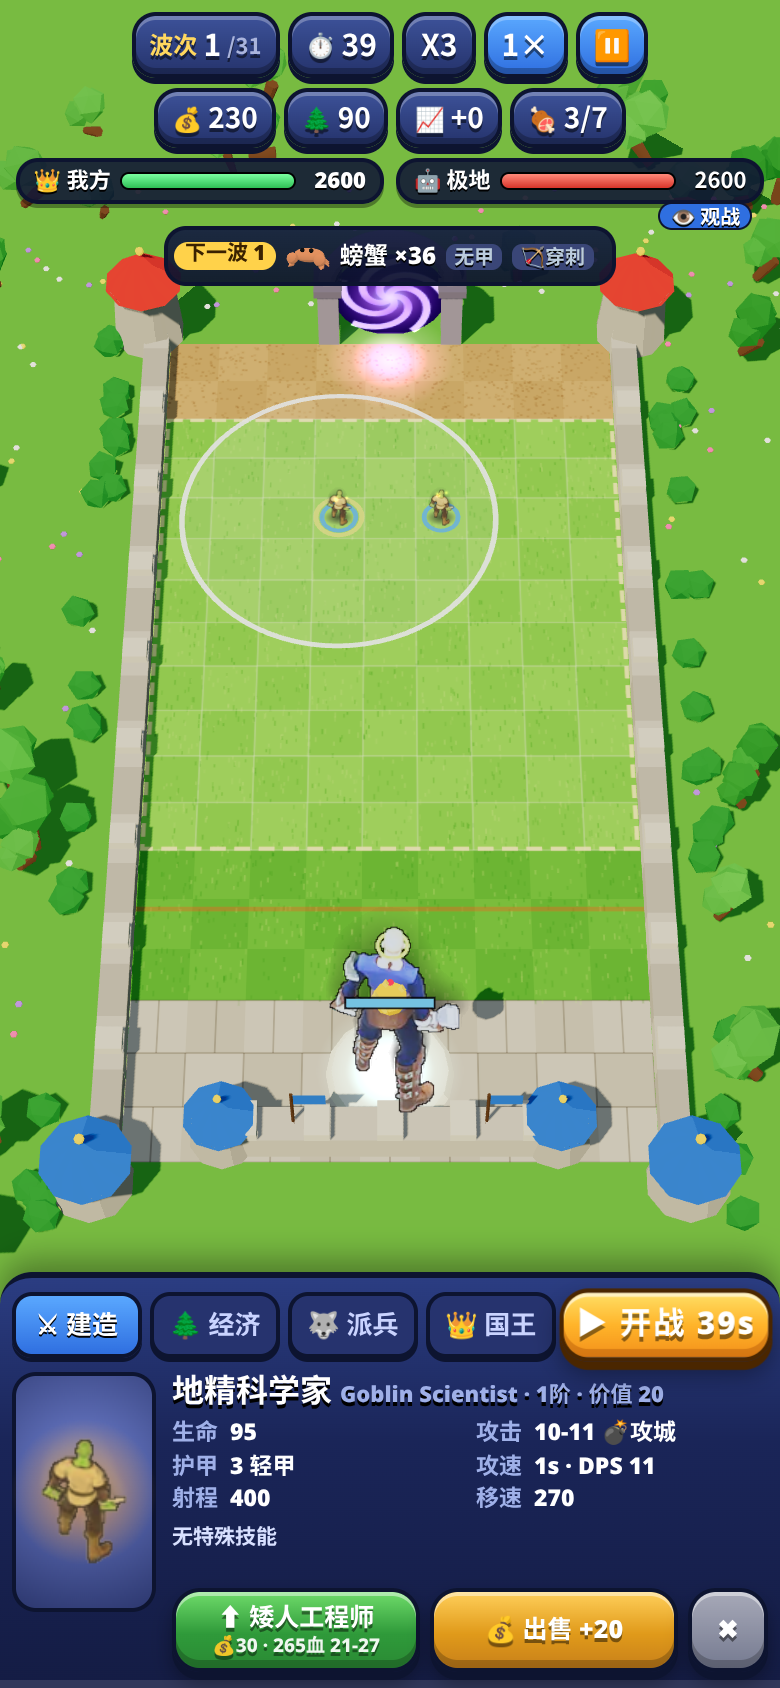
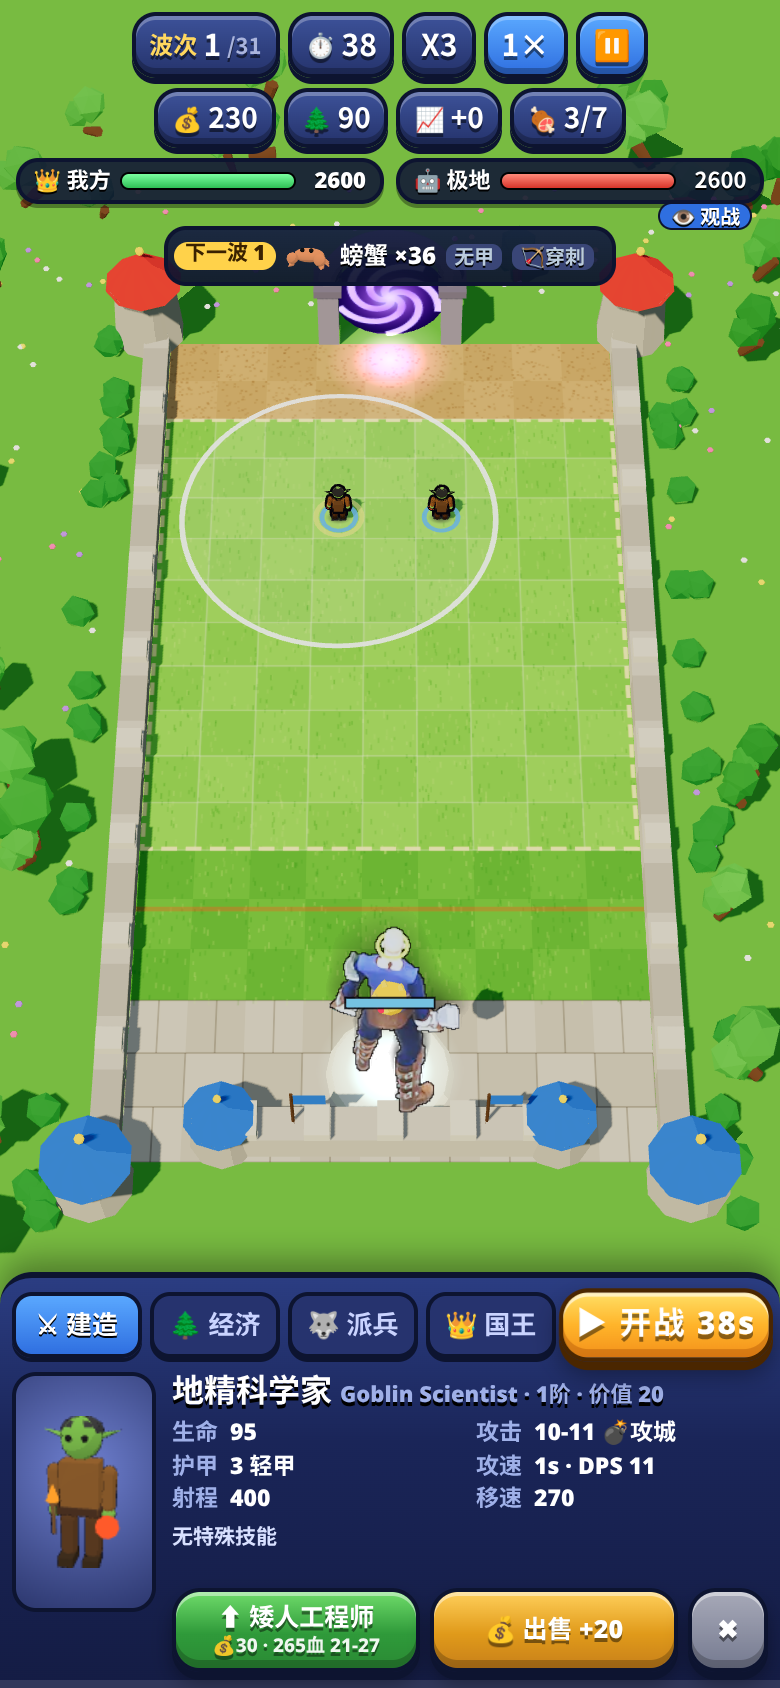
Model remake: Demi-Human (goblins, dwarf mortar, trolls, peon, wolf slavemaster, demonesses, tauren, sasquatch)

diff --git a/toonrecipes.js b/toonrecipes.js
@@ -73,3 +73,17 @@ R('h08Y',{k:1.05,h:1.05,torso:'robe',head:'default',helm:'hood',hoodC:0xb02a2a,s
 R('h08Z',{k:1.08,h:1.05,torso:'default',head:'default',helm:'helm',metal:0xd8a83a,skin:0xf0c8a0,torsoC:0xb02a2a,legC:0x4a1a1a,bootC:0xd8a83a,weapon:'sword',wMetal:0xff8a3a,glow:0xff7a2a,off:'orb',atk:'swing',pads:true,padC:0xd8a83a,extras:['ears','cape:0x2a6a3a','tabard:0xd8a83a']});
 R('h090',{k:1.12,h:1.08,torso:'default',head:'default',helm:'hood',hoodC:0x2a2a4a,skin:0x9a7ad8,torsoC:0x3a3a6a,legC:0x2a2a4a,bootC:0x1a1a2a,weapon:'blade',off:'blade',wMetal:0xc8d0ff,glow:0xc8d0ff,atk:'swing',extras:['ears:0x9a7ad8','cape:0x4a2a7a','orbit:0xc8d0ff']});
 R('h093',{k:1.22,h:1.12,torso:'default',head:'default',helm:'greathelm',metal:0x4a6a5a,accent:0x8aff8a,skin:0x9a7ad8,torsoC:0x4a3a6a,legC:0x2a2a3a,bootC:0x4a6a5a,weapon:'blade',wMetal:0xd8f0e0,glow:0x8aff8a,pads:true,padC:0x4a6a5a,spikes:true,atk:'swing',extras:['ears:0x9a7ad8','cape:0x2a5a3a','plate:0x4a6a5a','aura:0x8aff8a']});
+// ===================== 亚人 Demi-Human：地精、矮人、巨魔、兽人、魅魔、牛头人、大脚怪 =====================
+R('h06J',{k:0.8,h:0.85,bw:0.95,torso:'default',head:'default',headS:1.25,skin:0x7ab84a,torsoC:0x8a5a2a,legC:0x5a3a20,bootC:0x3a2a1a,hair:0x3a3a3a,weapon:'torch',off:'orb',glow:0xff5a2a,atk:'cast',extras:['ears:0x7ab84a','backpack:0x6a4a2a']});
+R('h078',{k:0.9,h:0.82,bw:1.3,torso:'default',head:'default',helm:'helm',metal:0x9a8a6a,skin:0xf0b890,torsoC:0x3a5a8a,legC:0x5a4a3a,bootC:0x3a2a1a,beard:0xc86a2a,weapon:'cannon',atk:'shoot',extras:['backpack:0x6a5a3a','beard:0xc86a2a']});
+R('h06I',{k:1.1,h:1.05,bw:1.45,torso:'brute',head:'beast',headC:0xc8906a,skin:0xc8906a,torsoC:0x8a6a4a,legC:0x6a4a30,sleeve:0xc8906a,handC:0xb07a5a,eye:0xffe04a,weapon:'orb',off:'orb',glow:0x8aff4a,atk:'cast',extras:['tanks:0x6aff4a','belly:0xd8a080','chest:0x8aff4a']});
+R('h06K',{k:0.92,h:0.95,bw:1.15,torso:'default',head:'default',skin:0x6a9a3a,torsoC:0x8a6a3a,legC:0x6a4a2a,bootC:0x4a3020,weapon:'axe',wMetal:0x8a8a8a,wood:0x7a5a3a,atk:'swing',extras:['tusks','ears:0x6a9a3a','backpack:0x8a6a3a']});
+R('h06L',{k:1.05,plan:'quad',skin:0x6a6a6a,skin2:0x9a9a9a,headType:'wolf',eye:0xffd02a,legLen:0.3,bodyLen:0.62,tailLen:0.35,tailW:1.4,mane:true,maneC:0x4a4a4a,claws:true,saddle:0x8a3a2a,rider:0x6a4a2a,riderSkin:0x6a9a3a,riderHelm:0x8a8a8a,lance:0x5a3a2a,atk:'bite',extras:['chains']});
+R('h06M',{k:1.0,h:1.08,torso:'default',head:'default',skin:0x5a9ab8,torsoC:0x7a5a3a,legC:0x5a4a2a,bootC:0x3a2a1a,hair:0xd83a2a,eye:0xff4a2a,weapon:'spear',wood:0x8a6a3a,atk:'thrust',extras:['tusks','ears:0x5a9ab8','quiver']});
+R('h06N',{k:1.15,h:1.12,bw:1.15,torso:'default',head:'default',helm:'horns',hornC:0xe8dcc0,skin:0x4a8aa8,torsoC:0x6a4a2a,legC:0x4a3a1a,bootC:0x2a1a10,hair:0xff3a2a,weapon:'spear',wMetal:0xd8d8d8,wood:0x6a4a2a,pads:true,padC:0xe8dcc0,atk:'thrust',extras:['tusks','ears:0x4a8aa8','mane:0x5a4a3a','bones']});
+R('h06O',{k:1.0,h:1.05,torso:'robe',head:'skull',headC:0xd8c8a0,skin:0x5a9ab8,torsoC:0x6a4a2a,eye:0x8aff4a,weapon:'staff',wood:0x8a6a3a,glow:0x8aff4a,atk:'cast',extras:['ears:0x5a9ab8','bones','aura:0x8aff4a']});
+R('h06P',{k:1.1,h:1.08,bw:1.15,torso:'robe',head:'default',skin:0x6a9a3a,torsoC:0x5a3a2a,beard:0x3a3a3a,weapon:'staff',wood:0x7a5a3a,glow:0x8ad8ff,atk:'cast',extras:['tusks','mane:0x8a8a8a','tabard:0xb02a2a','orbit:0x8ad8ff']});
+R('h06Q',{k:1.02,h:1.05,torso:'default',head:'default',helm:'horns',hornC:0x2a1a2a,skin:0xb87ad0,torsoC:0x3a1a3a,legC:0xb87ad0,legs:'hoof',hair:0xf0f0f0,weapon:'chain',glow:0xff6ad8,atk:'swing',extras:['bwings:0x5a2a5a','tail:0xb87ad0']});
+R('h06R',{k:1.18,h:1.12,torso:'default',head:'default',helm:'horns',hornC:0x1a1a3a,skin:0x6a8ad8,torsoC:0x1a1a4a,legC:0x6a8ad8,legs:'hoof',hair:0x1a1a2a,weapon:'chain',glow:0x8ad8ff,atk:'swing',extras:['bwings:0x2a2a6a','tail:0x6a8ad8','aura:0xff8ad8','orbit:0xff8ad8']});
+R('h06S',{k:1.25,h:1.15,bw:1.4,torso:'brute',head:'beast',headC:0x7a5030,helm:'horns',hornC:0xf0e8d8,skin:0x8a5a3a,torsoC:0x8a5a3a,legC:0x5a3a20,sleeve:0x8a5a3a,handC:0x7a5030,legs:'hoof',eye:0xffd02a,weapon:'hammer',wood:0x6a4a2a,wMetal:0x8a8a8a,atk:'slam',extras:['mane:0x3a2a1a','tabard:0x3a8ad8','tail:0x5a3a20']});
+R('h06T',{k:1.3,h:1.18,bw:1.5,torso:'brute',head:'beast',headC:0x8a6a4a,skin:0x7a5a3a,torsoC:0x7a5a3a,legC:0x6a4a2a,sleeve:0x7a5a3a,handC:0x5a3a20,arms:'claw',eye:0xffa02a,weapon:'claws',off:'claws',atk:'slam',extras:['mane:0x5a3a20','belly:0xa08060','spikes:0x5a3a20']});

diff --git a/index.html b/index.html
@@ -10,9 +10,9 @@
 <link rel="manifest" href="manifest.webmanifest">
 <link rel="icon" type="image/png" href="icons/favicon-32.png">
 <link rel="apple-touch-icon" href="icons/apple-touch-icon.png">
-<link rel="stylesheet" href="style.css?v=6">
-<link rel="stylesheet" href="td.css?v=6">
-<link rel="stylesheet" href="lt.css?v=6">
+<link rel="stylesheet" href="style.css?v=7">
+<link rel="stylesheet" href="td.css?v=7">
+<link rel="stylesheet" href="lt.css?v=7">
 </head>
 <body class="td lt">
 <canvas id="cv"></canvas>
@@ -75,8 +75,8 @@
 </div>
 <div id="showTitle" class="hidden"></div>
 <script src="audio.js?v=1"></script>
-<script src="lt_core.js?v=6"></script>
+<script src="lt_core.js?v=7"></script>
 <script type="importmap">{"imports":{"three":"./lib/three.module.min.js","three/addons/":"./lib/addons/"}}</script>
-<script type="module" src="lt.js?v=6"></script>
+<script type="module" src="lt.js?v=7"></script>
 </body>
 </html>

diff --git a/lt.js b/lt.js
@@ -3,8 +3,8 @@ import * as THREE from 'three';
 import {SPR_UNITS,SPR_K,SPR_V} from './sprdata.js';
 import {MODELS,modelOf} from './models.js';
 import {ABZ as ABZ_} from './abil_zh.js';
-import {initTK,buildTK,animTK} from './toonkit.js?v=6';
-import {TKR} from './toonrecipes.js?v=6';
+import {initTK,buildTK,animTK} from './toonkit.js?v=7';
+import {TKR} from './toonrecipes.js?v=7';
 const LT=window.LT,S=SFX.S,$=id=>document.getElementById(id);
 const Q=location.search;const DEBUG=/[?&]debug/.test(Q);const SHOWCASE=(Q.match(/[?&]showcase=([^&]+)/)||[])[1];
 const W=LT.W,H=LT.H,W2=W/2,H2=H/2;const B=LT.BUILD;

diff --git a/data/model_audit.md b/data/model_audit.md
@@ -28,7 +28,7 @@
 | Nature 自然 | 13 | 1.31 | 1 | 0 |
 | Element 元素 | 12 | 1.58 | 2 | 12 |
 | Ghost 幽魂 | 14 | 1.93 | 1 | 14 |
-| Demi-Human 亚人 | 13 | 1.69 | 1 | 0 |
+| Demi-Human 亚人 | 13 | 1.69 | 1 | 13 |
 | Hybrid 混血 | 6 | 1.00 | 0 | 0 |
 | Marine 海洋 | 14 | 1.43 | 0 | 0 |
 | Arctic 极地 | 12 | 2.00 | 2 | 12 |
@@ -131,19 +131,19 @@
 
 | id | 兵种 | WC3 模型 | 旧资源 | 旧资源符合度 | 处理 |
 |---|---|---|---|---|---|
-| h06J | Goblin Scientist 地精科学家 | GoblinSapper | 精灵 goblin | ✅ 基本相符 | 保留，后续统一换 ToonKit 时顺带做 |
-| h078 | Dwarven Engineer 矮人工程师 | MortarTeam | 精灵 dwarf | ⚠ 部分不符 | ToonKit 程序化重做（按 WC3 轮廓/配色） |
-| h06I | Mutant 变异炼金师 | HeroGoblinAlchemist | 精灵 hobgoblin | ⚠ 部分不符 | ToonKit 程序化重做（按 WC3 轮廓/配色） |
-| h06K | Servant 苦工 | Peon | 精灵 orc | ✅ 基本相符 | 保留，后续统一换 ToonKit 时顺带做 |
-| h06L | Slavemaster 奴隶主 | WolfRider | 精灵 wolfRider | ✅ 基本相符 | 保留，后续统一换 ToonKit 时顺带做 |
-| h06M | Tribesman 部落人 | HeadHunter | 精灵 troglodyte | ⚠ 部分不符 | ToonKit 程序化重做（按 WC3 轮廓/配色） |
-| h06N | Alpha Male 头狼猎手 | HeadHunter_V1 | 精灵 troglodyte | ⚠ 部分不符 | ToonKit 程序化重做（按 WC3 轮廓/配色） |
-| h06O | Medicine Man 巫医 | WitchDoctor | 精灵 goblin | ⚠ 部分不符 | ToonKit 程序化重做（按 WC3 轮廓/配色） |
-| h06P | Oracle 先知萨满 | Shaman | 精灵 orc | ✅ 基本相符 | 保留，后续统一换 ToonKit 时顺带做 |
-| h06Q | Harlot 魅魔 | Demoness | 精灵 medusa | ⚠ 部分不符 | ToonKit 程序化重做（按 WC3 轮廓/配色） |
-| h06R | Mistress 魔女 | DemonessBlue | 精灵 medusa | ⚠ 部分不符 | ToonKit 程序化重做（按 WC3 轮廓/配色） |
-| h06S | Minotaur 牛头人 | Tauren | 精灵 minotaur | ✅ 基本相符 | 保留，后续统一换 ToonKit 时顺带做 |
-| h06T | Bigfoot 大脚怪 | Sasquatch | 精灵 minotaur | ❌ 严重不符 | ToonKit 程序化重做（按 WC3 轮廓/配色） |
+| h06J | Goblin Scientist 地精科学家 | GoblinSapper | 精灵 goblin | ✅ 基本相符 | **已重做**：ToonKit 程序化卡通模型（humanoid） |
+| h078 | Dwarven Engineer 矮人工程师 | MortarTeam | 精灵 dwarf | ⚠ 部分不符 | **已重做**：ToonKit 程序化卡通模型（humanoid） |
+| h06I | Mutant 变异炼金师 | HeroGoblinAlchemist | 精灵 hobgoblin | ⚠ 部分不符 | **已重做**：ToonKit 程序化卡通模型（humanoid） |
+| h06K | Servant 苦工 | Peon | 精灵 orc | ✅ 基本相符 | **已重做**：ToonKit 程序化卡通模型（humanoid） |
+| h06L | Slavemaster 奴隶主 | WolfRider | 精灵 wolfRider | ✅ 基本相符 | **已重做**：ToonKit 程序化卡通模型（quad） |
+| h06M | Tribesman 部落人 | HeadHunter | 精灵 troglodyte | ⚠ 部分不符 | **已重做**：ToonKit 程序化卡通模型（humanoid） |
+| h06N | Alpha Male 头狼猎手 | HeadHunter_V1 | 精灵 troglodyte | ⚠ 部分不符 | **已重做**：ToonKit 程序化卡通模型（humanoid） |
+| h06O | Medicine Man 巫医 | WitchDoctor | 精灵 goblin | ⚠ 部分不符 | **已重做**：ToonKit 程序化卡通模型（humanoid） |
+| h06P | Oracle 先知萨满 | Shaman | 精灵 orc | ✅ 基本相符 | **已重做**：ToonKit 程序化卡通模型（humanoid） |
+| h06Q | Harlot 魅魔 | Demoness | 精灵 medusa | ⚠ 部分不符 | **已重做**：ToonKit 程序化卡通模型（humanoid） |
+| h06R | Mistress 魔女 | DemonessBlue | 精灵 medusa | ⚠ 部分不符 | **已重做**：ToonKit 程序化卡通模型（humanoid） |
+| h06S | Minotaur 牛头人 | Tauren | 精灵 minotaur | ✅ 基本相符 | **已重做**：ToonKit 程序化卡通模型（humanoid） |
+| h06T | Bigfoot 大脚怪 | Sasquatch | 精灵 minotaur | ❌ 严重不符 | **已重做**：ToonKit 程序化卡通模型（humanoid） |
 
 ## Orc 兽人
 
